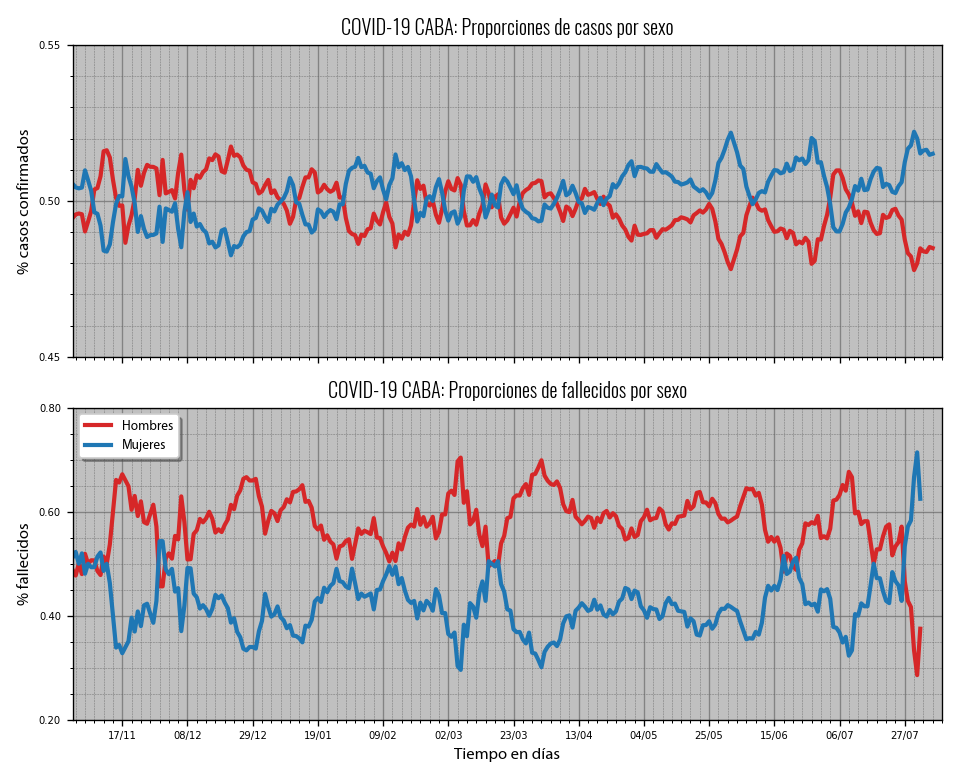
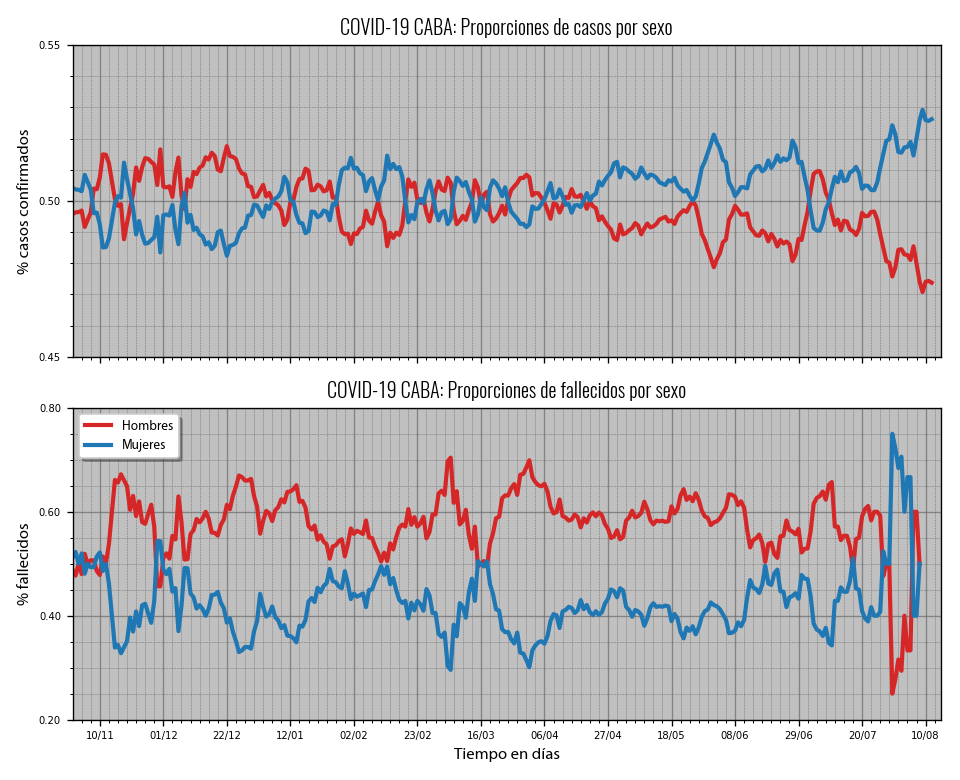
Updating charts...

Changed region(s): [[0.0938, 0.4923, 1.0, 0.9538], [0.0625, 0.0, 1.0, 0.4615]]

diff --git a/chart_config.py b/chart_config.py
@@ -26,7 +26,7 @@ language = 1 #0 = english, 1 = spanish
 legend_text_size = 8
 plot_scale = "linear"
 start_date = "2020-11-01"
-end_date = "2021-08-08"
+end_date = "2021-08-15"
 week_interval = 3
 v_start_date = "2021-01-01"
 v_week_interval = 2
